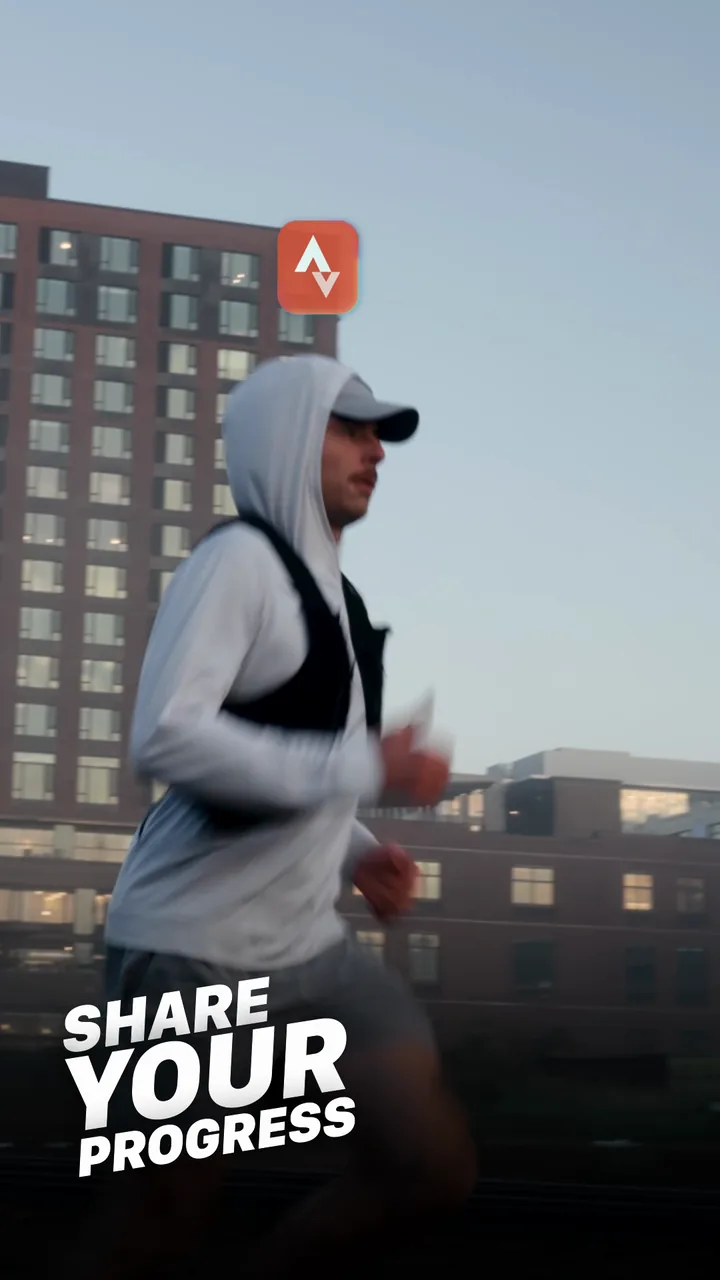
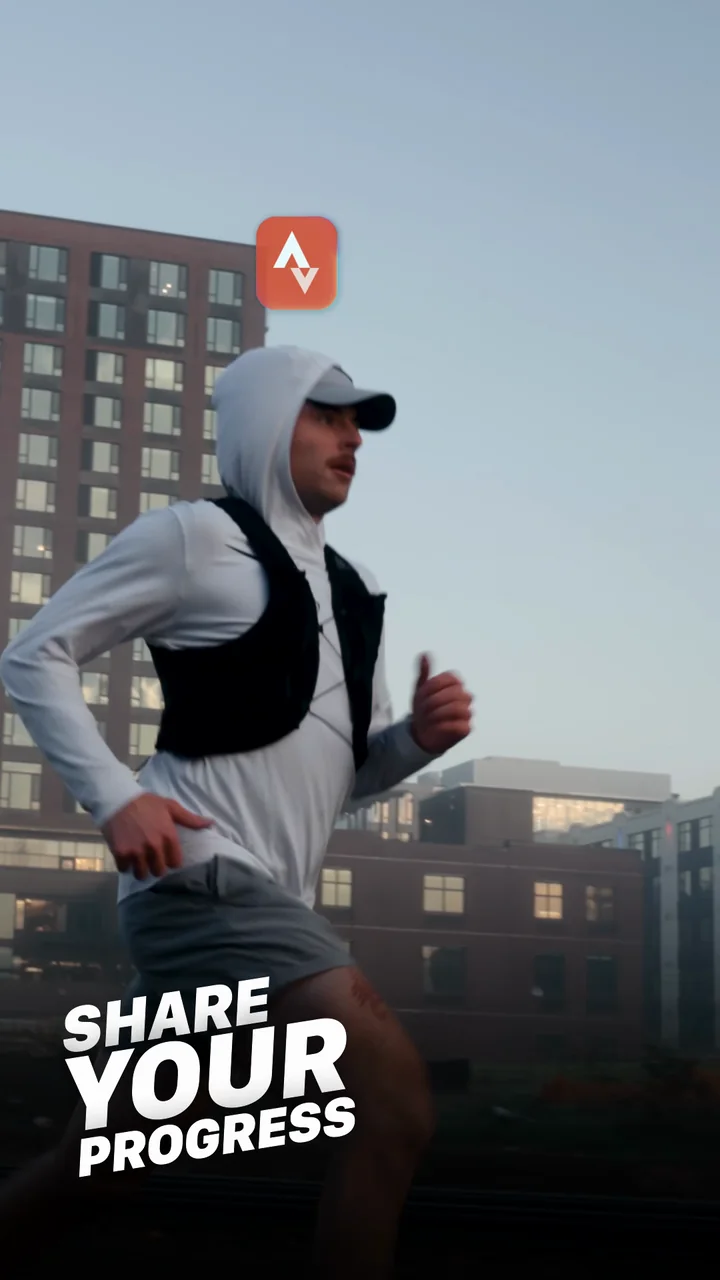
Curve the top, leave the bottom flat, and fix the blurred stats still
Corners move to the top, where the nav is and where a curve has something to
relate to. The bottom goes back to flat and dissolving, which is what the
fade was already doing — a curve down there was competing with it. Radius is
unchanged and still derived: nav 12px in at 24, so 12px further out is 36,
and the arcs stay parallel.

The stats still was visibly soft on the simulator. Measured it rather than
guessed: the frame I had taken at 17.0s scores 69 on a Laplacian variance
against 174 at 15.2s — I had picked the blurriest moment of the shot by eye
off a contact sheet.

But sharpness was only half of it. At 15.2s the five cards sit in a third of
a 9:16 frame, and the section renders that frame 300px wide, so the labels
were mush whatever frame I chose. It is cropped into the cards now and runs
wide instead of tall: Steps 5,211, Total Calories 2,150, Heart Rate 96, HRV
125, VO2 Max 49.0, all readable, and the section is shorter for it.

Share still moves 25.2s to 25.6s on the same measurement.

Changed region(s): [[0.0, 0.125, 1.0, 0.8125], [0.6111, 0.875, 0.6417, 0.9062], [0.5806, 0.8125, 0.6111, 0.8438]]

diff --git a/get.html b/get.html
@@ -103,8 +103,12 @@
     /* ── the teaser, full bleed, fading into the page ── */
     .film {
       position: relative; height: min(46vh, 360px); overflow: hidden; background: #05080f;
-      border-bottom-left-radius: calc(var(--nav-r) + var(--nest));
-      border-bottom-right-radius: calc(var(--nav-r) + var(--nest));
+      /* Curve at the top, where the nav is, and nothing at the bottom, where
+         the fade does the work. The radius is still derived: the nav sits
+         12px in with a 24px radius, so a curve 12px further out is 36 and the
+         two arcs run parallel. */
+      border-top-left-radius: calc(var(--nav-r) + var(--nest));
+      border-top-right-radius: calc(var(--nav-r) + var(--nest));
       transition: height .45s cubic-bezier(.22, 1, .36, 1);
     }
     .film-ctl { position: absolute; z-index: 3; right: 14px; bottom: 14px; display: flex; gap: 8px; }
@@ -136,7 +140,7 @@
       transition: opacity .3s ease;
       background: linear-gradient(180deg,
         rgba(5,8,15,.55) 0%, rgba(5,8,15,.06) 18%, rgba(8,15,30,0) 46%,
-        rgba(8,15,30,.12) 70%, rgba(8,15,30,.6) 88%, rgba(8,15,30,.88) 100%);
+        rgba(8,15,30,.12) 70%, rgba(8,15,30,.58) 88%, var(--bg) 100%);
     }
 
     /* ── the teaser's own beats, as sections ── */
@@ -149,6 +153,7 @@
       margin: 11px auto 0; max-width: 33ch;
       font-size: clamp(.95rem, 3.7vw, 1.06rem); line-height: 1.45; color: var(--muted);
     }
+    .beat-shot--wide { width: min(100%, 430px) !important; border-radius: 16px; }
     .beat-shot {
       width: min(76%, 300px); margin: 22px auto 0; border-radius: 20px;
       box-shadow: 0 22px 50px -22px rgba(0,0,0,.85), 0 0 0 1px rgba(255,255,255,.06);
@@ -364,8 +369,10 @@
         <h2>The bar shows its work.</h2>
         <p>Heart rate, HRV, steps, calories, cardio fitness, breathing and wrist temperature &mdash; all of it feeding one number.</p>
       </div>
-      <img class="beat-shot" src="assets/get/shot-stats.webp" width="720" height="1280" loading="lazy" decoding="async"
-           alt="Health stat cards flying into the health bar on an Apple Watch" />
+      <!-- cropped into the cards: at 300px wide the full 9:16 frame put five
+           labels in a third of the picture and they turned to mush -->
+      <img class="beat-shot beat-shot--wide" src="assets/get/shot-stats.webp" width="900" height="400" loading="lazy" decoding="async"
+           alt="Steps, calories, heart rate, HRV and VO2 max flying into the health bar on an Apple Watch" />
     </section>
 
     <section class="beat" id="workout">
